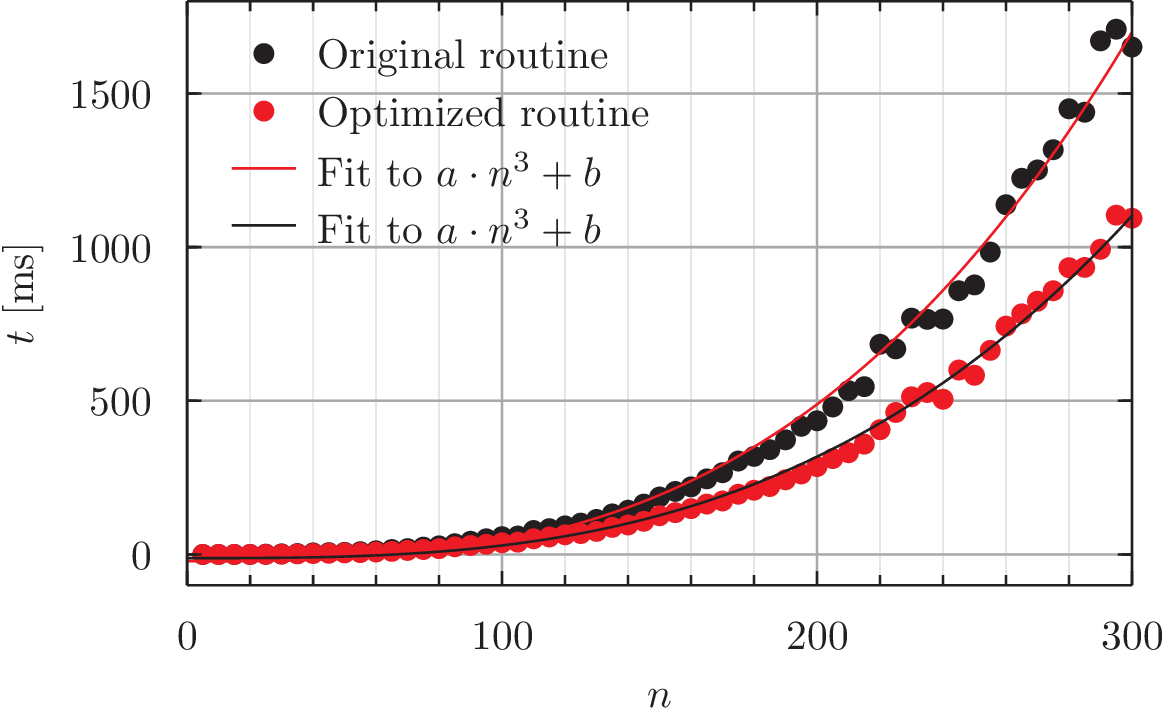
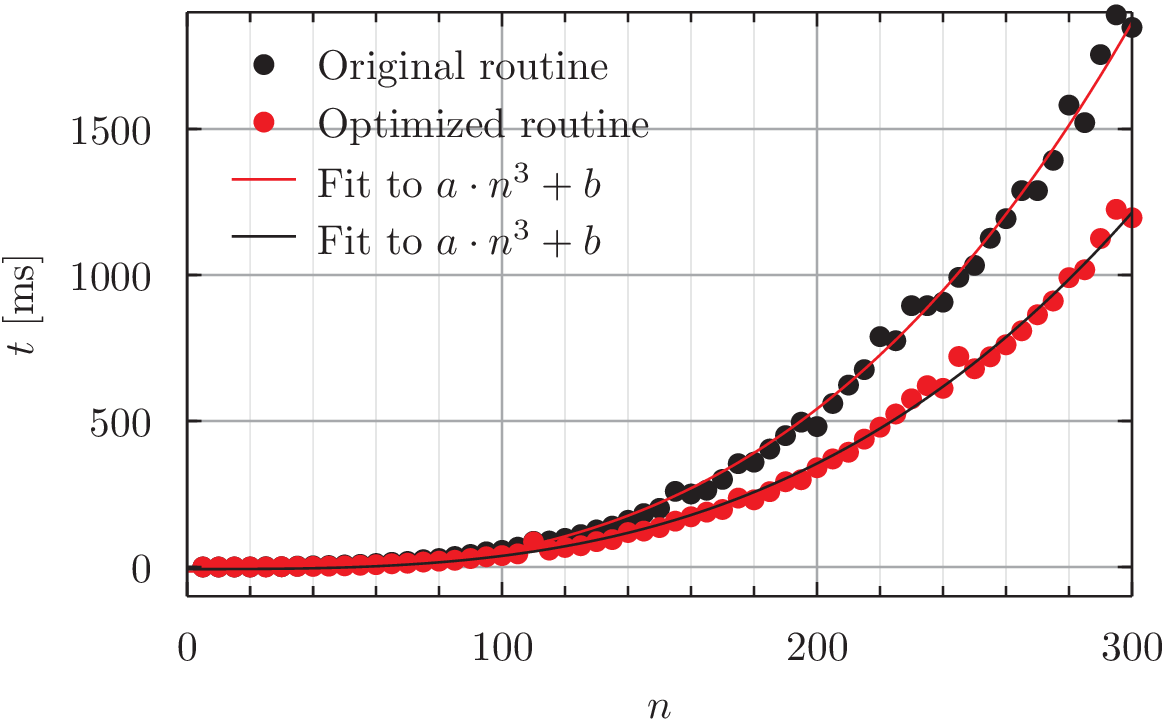
Updating eigenvalues homework

diff --git a/Homework/eigenvalues/C/main.cs b/Homework/eigenvalues/C/main.cs
@@ -100,6 +100,11 @@ public class main{
 		WriteLine("----------------------------------------------");
 		WriteLine("In conclusion: The optimized Jacobi EVD is succesful! :-)");
 
+		WriteLine("----------------------------------------------");
+		WriteLine("Both the original and optimized algorithm have been investigated with regards to time");
+		WriteLine("This can be seen in \'timing.png\' in this directory");
+		WriteLine("Evidently, both algorithms scale as O(n^3) as expected");
+		WriteLine("----------------------------------------------");
 
 	}
 }
